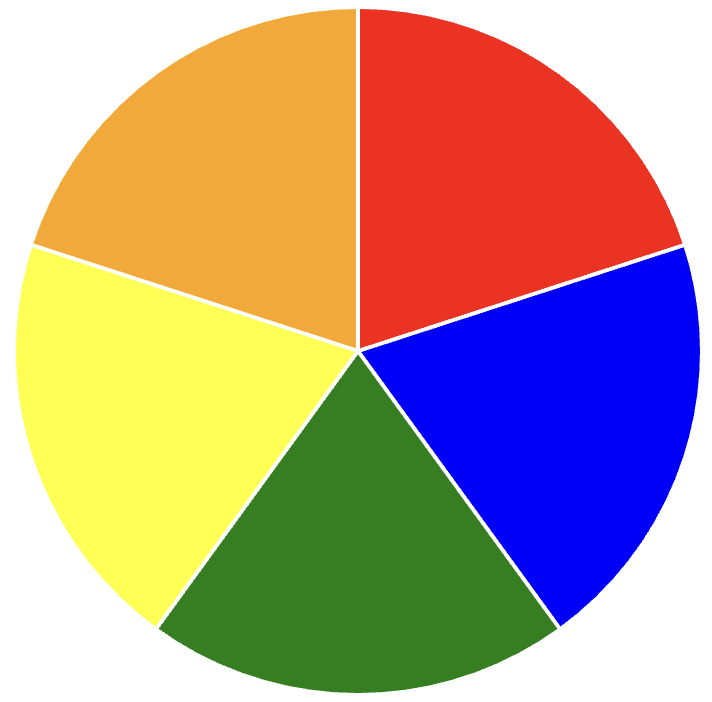
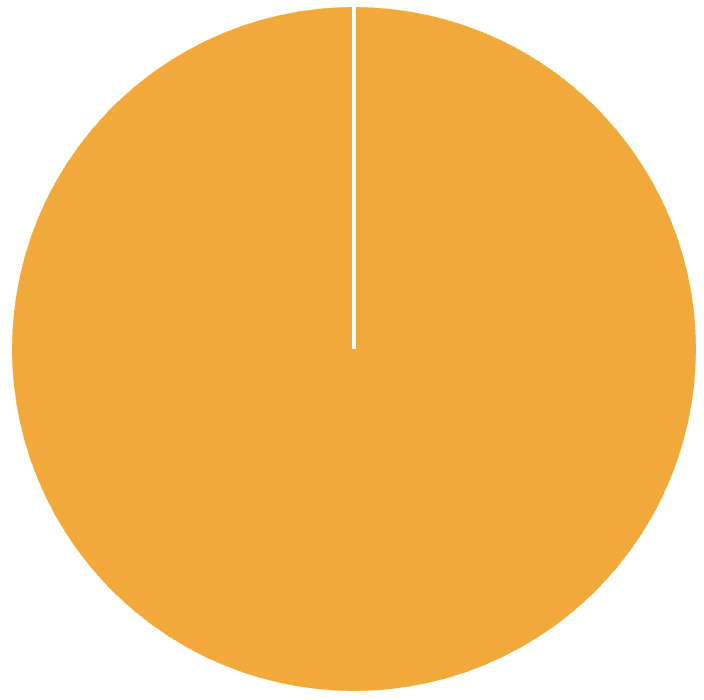
add new changes

diff --git a/experiment.js b/experiment.js
@@ -175,10 +175,10 @@ const instructionsSelf = {
      `,
 
      `<p style="text-align: left;">
-     We want you to think about creating an ideal life by partitioning up the circle below: 
+     We want you to think about creating an ideal life by partitioning up the circle: 
      </p>
      
-     <img src="images/piealone.jpg" style="display: block; margin: 0 auto; width: 50%;">
+     <img src="images/piealone2.jpg" style="display: block; margin: 0 auto; width: 20%;">
 
      <p style="text-align: left;">
      This circle represents the amount of a person's life they dedicate to different pursuits. Your task is to decide <b>how much of a person's life</b> they should dedicate to different pursuits. 
@@ -189,8 +189,8 @@ const instructionsSelf = {
      <ul style="text-align: left;">
        <li><b>Knowledge</b> (pursuing truth, science, or technology)</li>
        <li><b>Morality</b> (helping those in need, caring for others, practicing religion)</li>
-       <li><b>Politics</b> (pursuing social order and organization)</li>
        <li><b>Pleasures</b> (pursuing enjoyment, play, and leisure in life)</li>
+       <li><b>Politics</b> (pursuing social order and organization)</li>
        <li><b>Self-expression</b> (culture, making art, music, perfecting a sport)</li>
      </ul>
      </p>`,
@@ -240,13 +240,13 @@ const instructionsOther = {
      `,
 
      `<p style="text-align: left;">
-     We want you to think about creating an ideal society by partitioning up the circle below: 
+     We want you to think about creating an ideal society by partitioning up the circle: 
      </p>
      
-     <img src="images/piealone.jpg" style="display: block; margin: 0 auto; width: 50%;">
+     <img src="images/piealone2.jpg" style="display: block; margin: 0 auto; width: 30%;">
      
      <p style="text-align: left;">
-     In that society, its possible that some people dedicate themselves to some pursuits, while others dedicate themselves to other pursuits. 
+     In a society, its possible that some people dedicate themselves to some pursuits, while others dedicate themselves to other pursuits. 
      We want to know how you think people in an ideal society should divide up these pursuits. 
      </p>
 
@@ -255,8 +255,8 @@ const instructionsOther = {
      <ul style="text-align: left;">
      <li><b>Knowledge</b> (pursuing truth, science, or technology)</li>
      <li><b>Morality</b> (helping those in need, caring for others, practicing religion)</li>
-     <li><b>Politics</b> (pursuing social order and organization)</li>
      <li><b>Pleasures</b> (pursuing enjoyment, play, and leisure in life)</li>
+     <li><b>Politics</b> (pursuing social order and organization)</li>
      <li><b>Self-expression</b> (culture, making art, music, perfecting a sport)</li>
      </ul>
      </p>`,
@@ -298,12 +298,15 @@ let proportions = {};
 const pieChartTrial = {
   type: jsPsychHtmlKeyboardResponse,
   stimulus: `
-  <div style="text-align: center; margin-bottom: 20px;">
-    <p>
-      <b>Adjust the amount of each of the following pursuits:</b></p>
-      <p>Knowledge relates to pursuing truth, science or technology, Moral relates to helping those in need, caring for others,
-      Politics relates to pursuing social order and organization, Pleasures relates to pursuing enjoyment, play, and leisure in life,
-      and Self-expression relates to making art, perfecting a sport. </p>
+  <div style="text-align: center; margin-bottom: 5px;">
+      <b>Adjust the amount of each of the following pursuits:</b>
+      <ul style="text-align: left; font-size: 14px; margin-top: 5px;">
+      <li><b>Knowledge</b> (pursuing truth, science, or technology)</li>
+      <li><b>Morality</b> (helping those in need, caring for others, practicing religion)</li>
+      <li><b>Pleasures</b> (pursuing enjoyment, play, and leisure in life)</li>
+      <li><b>Politics</b> (pursuing social order and organization)</li>
+      <li><b>Self-expression</b> (culture, making art, music, perfecting a sport)</li>
+      </ul> 
     </p>
   </div>
 
@@ -311,20 +314,20 @@ const pieChartTrial = {
     <canvas id="pieChart"></canvas>
   </div>
   <div id="inputContainer" style="width: 400px; margin: 0 auto; text-align: left;">
-    <label for="cat1">Knowledge (pursuing truth, science, or technology):</label>
+    <label for="cat1">Knowledge:</label>
     <input type="number" id="cat1" value="20" min="0" max="100"><br>
-    <label for="cat2">Morality (helping those in need, caring for others, practicing religion):</label>
+    <label for="cat2">Morality:</label>
     <input type="number" id="cat2" value="20" min="0" max="100"><br>
-    <label for="cat3">Pleasures (pursuing enjoyment, play, and leisure in life):</label>
+    <label for="cat3">Pleasures:</label>
     <input type="number" id="cat3" value="20" min="0" max="100"><br>
-    <label for="cat4">Politics (pursuing social order and organization):</label>
+    <label for="cat4">Politics:</label>
     <input type="number" id="cat4" value="20" min="0" max="100"><br>
-    <label for="cat5">Self-expression (culture, making art, music, perfecting a sport):</label>
+    <label for="cat5">Self-expression:</label>
     <input type="number" id="cat5" value="20" min="0" max="100"><br>
   </div>
   <p></p>
   <p id="error-message" style="color: red;"></p>
-  <p>The piechart will update when the values equal 100. </p>
+  <p><i>The piechart will update when the values <b>equal 100</b>.</i></p>
   <p>Press the <b>space bar</b> when you are done adjusting the proportions to continue.</p>
   `,
   choices: [' '],
@@ -333,7 +336,7 @@ const pieChartTrial = {
     var pieChart = new Chart(ctx, {
       type: 'pie',
       data: {
-        labels: ['Knowledge', 'Morality', 'Pleasures', 'Politics', 'Self-expression',],
+        labels: ['Knowledge', 'Morality', 'Pleasures', 'Politics', 'Self-expression'],
         datasets: [{
           data: [20, 20, 20, 20, 20],
           backgroundColor: ['red', 'blue', 'green', 'yellow', 'orange']
